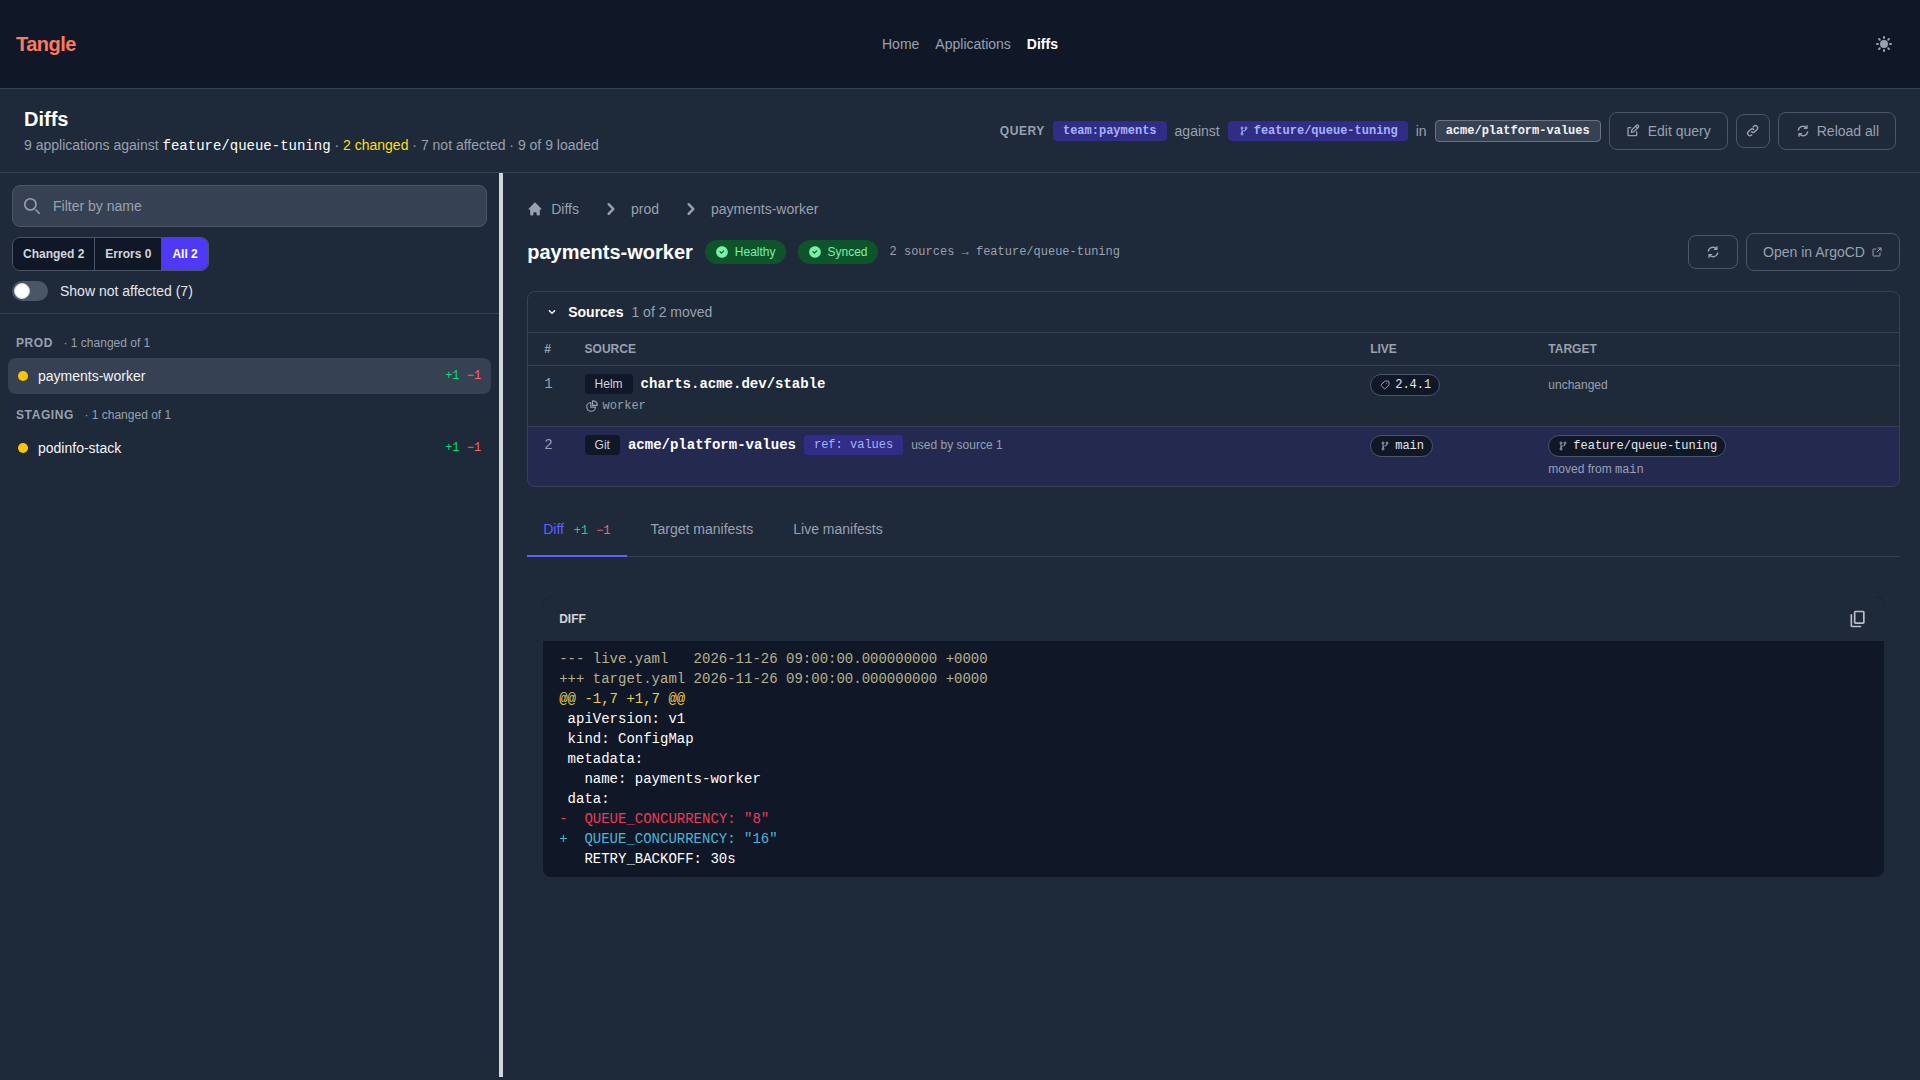
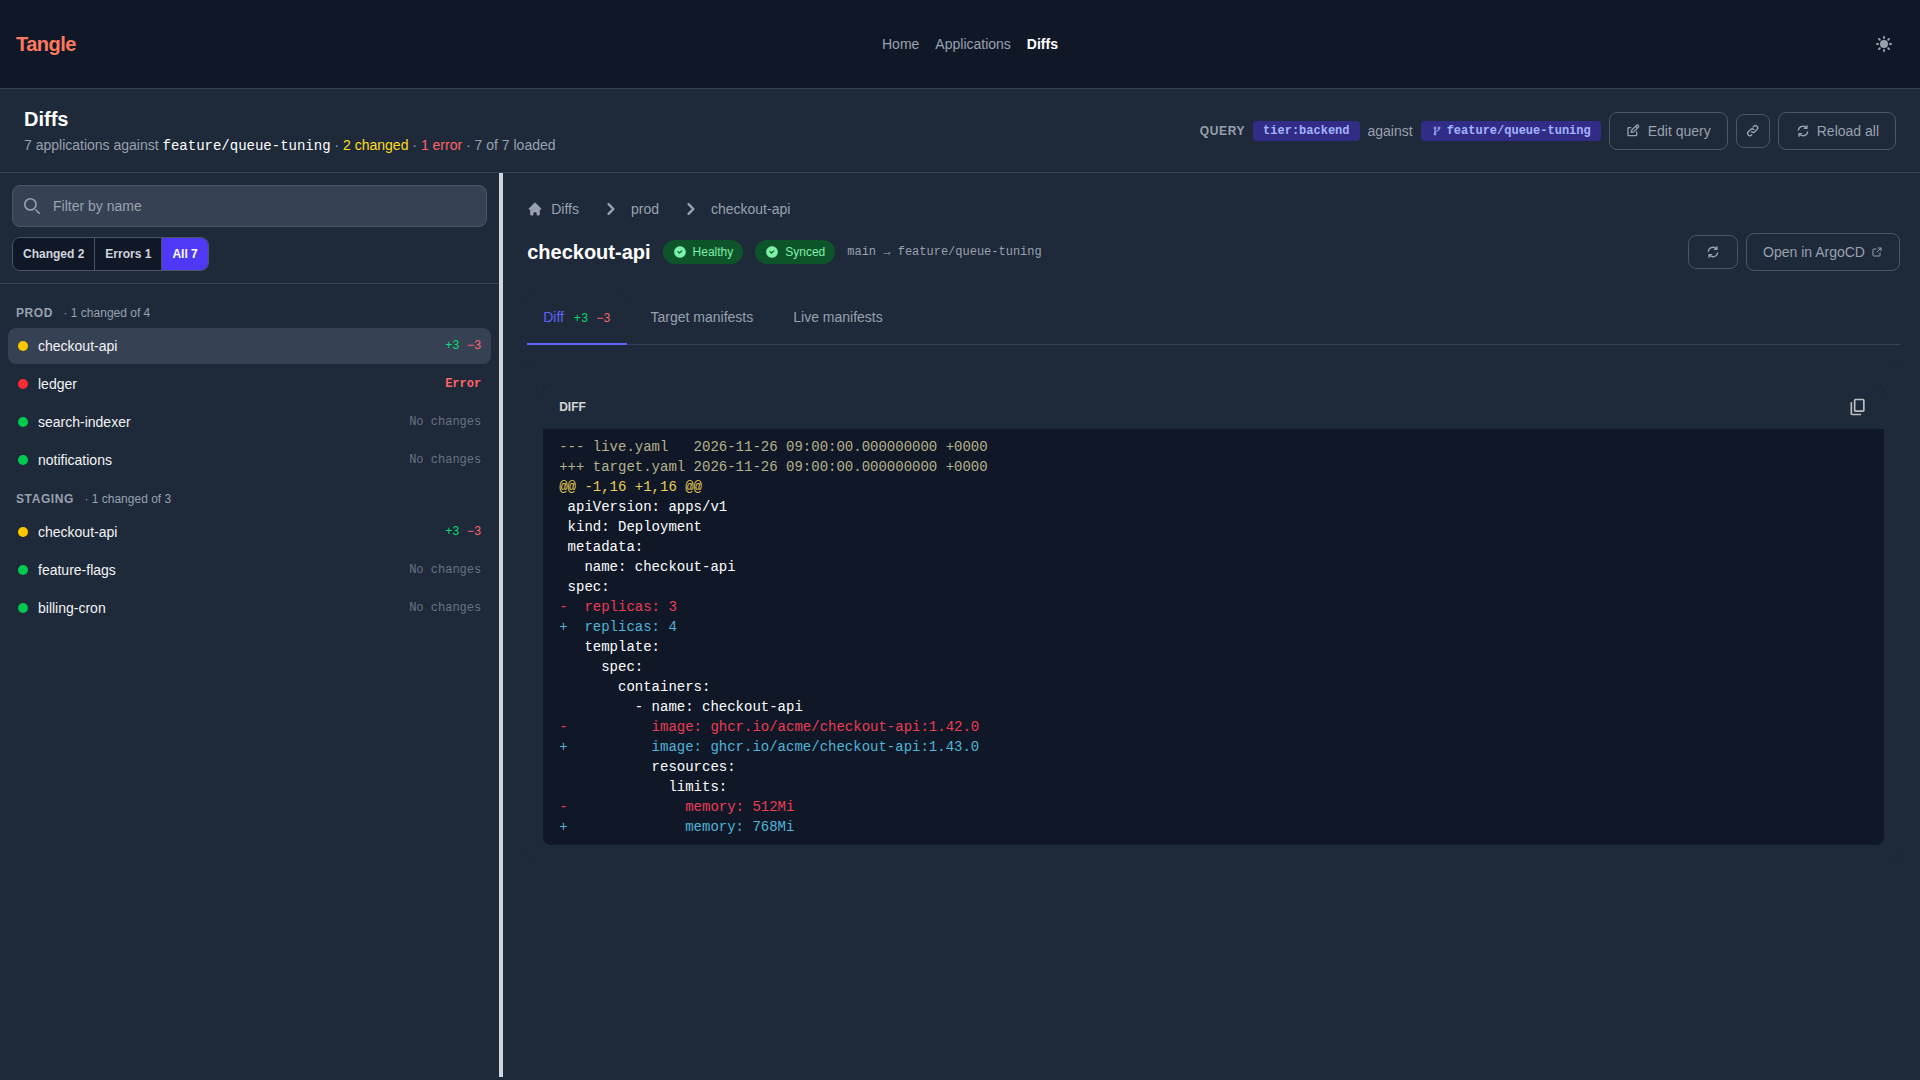
Show the single-source flow in the docs screenshots
The docs screenshots moved to the multi-source scenarios in #296: a
target repo on Home, an expanded 3-sources row, and a multi-source diff.
The basic use case isn't multi-source, so they're back to the originals'
scenarios: a label on Home, the plain Applications list, and a label
plus target ref on Diffs.

The fixture fleet now honors label queries. Single-source applications
also carry tier:backend, which the docs query; every application keeps
team:payments, so the screenshot tests and their baselines are unchanged.

diff --git a/web/e2e/fixtures/fleet.ts b/web/e2e/fixtures/fleet.ts
@@ -32,6 +32,8 @@ interface FleetApp {
 	health: string;
 	syncStatus: string;
 	sources: FleetSource[];
+	/** Labels on top of `team: payments`, which every application has. */
+	labels?: Record<string, string>;
 	rendered: Rendered;
 	/**
 	 * Repos that don't have the target ref: rendering fails, the way ArgoCD
@@ -97,6 +99,7 @@ const FLEET: { instance: string; apps: FleetApp[] }[] = [
 		apps: [
 			{
 				name: 'checkout-api',
+				labels: { tier: 'backend' },
 				health: 'Healthy',
 				syncStatus: 'Synced',
 				sources: [
@@ -132,6 +135,7 @@ const FLEET: { instance: string; apps: FleetApp[] }[] = [
 			},
 			{
 				name: 'ledger',
+				labels: { tier: 'backend' },
 				health: 'Degraded',
 				syncStatus: 'OutOfSync',
 				sources: [
@@ -144,6 +148,7 @@ const FLEET: { instance: string; apps: FleetApp[] }[] = [
 			},
 			{
 				name: 'search-indexer',
+				labels: { tier: 'backend' },
 				health: 'Progressing',
 				syncStatus: 'Synced',
 				sources: [
@@ -158,6 +163,7 @@ const FLEET: { instance: string; apps: FleetApp[] }[] = [
 			},
 			{
 				name: 'notifications',
+				labels: { tier: 'backend' },
 				health: 'Healthy',
 				syncStatus: 'Synced',
 				sources: [
@@ -177,6 +183,7 @@ const FLEET: { instance: string; apps: FleetApp[] }[] = [
 		apps: [
 			{
 				name: 'checkout-api',
+				labels: { tier: 'backend' },
 				health: 'Healthy',
 				syncStatus: 'Synced',
 				sources: [
@@ -218,6 +225,7 @@ const FLEET: { instance: string; apps: FleetApp[] }[] = [
 			},
 			{
 				name: 'feature-flags',
+				labels: { tier: 'backend' },
 				health: 'Healthy',
 				syncStatus: 'Synced',
 				sources: [
@@ -232,6 +240,7 @@ const FLEET: { instance: string; apps: FleetApp[] }[] = [
 			},
 			{
 				name: 'billing-cron',
+				labels: { tier: 'backend' },
 				health: 'Missing',
 				syncStatus: 'OutOfSync',
 				sources: [
@@ -255,12 +264,31 @@ function normalize(repo: string): string {
 		.replace(/^([^/]+)/, (host) => host.toLowerCase().replace(/:\d+$/, ''));
 }
 
-function applicationsResponse() {
+/** `key:value` pairs from a `labels` or `excludeLabels` query parameter. */
+function labelPairs(url: URL, param: string): [string, string][] {
+	return url.searchParams
+		.getAll(param)
+		.flatMap((value) => value.split(','))
+		.filter(Boolean)
+		.map((pair) => pair.split(':') as [string, string]);
+}
+
+/** The applications a label query selects, the way ArgoCD's selector does. */
+function applicationsResponse(url: URL) {
+	const include = labelPairs(url, 'labels');
+	const exclude = labelPairs(url, 'excludeLabels');
+	const selected = (app: FleetApp) => {
+		const labels: Record<string, string> = { team: 'payments', ...app.labels };
+		return (
+			include.every(([key, value]) => labels[key] === value) &&
+			!exclude.some(([key, value]) => labels[key] === value)
+		);
+	};
 	return {
 		results: FLEET.map(({ instance, apps }) => ({
 			name: instance,
 			link: `https://argocd-${instance}.acme.dev/applications`,
-			applications: apps.map((app) => ({
+			applications: apps.filter(selected).map((app) => ({
 				name: app.name,
 				url: `https://argocd-${instance}.acme.dev/applications/argocd/${app.name}`,
 				health: app.health,
@@ -359,7 +387,7 @@ async function mockFleetAPI(page: Page): Promise<void> {
 		route.fulfill({ json: { domain: 'https://tangle.acme.dev' } })
 	);
 	await page.route('**/api/applications*', (route) =>
-		route.fulfill({ json: applicationsResponse() })
+		route.fulfill({ json: applicationsResponse(new URL(route.request().url())) })
 	);
 	await page.route('**/api/argocd/*/applications/*/diffs', (route: Route) => {
 		const [, instance, name] =

diff --git a/web/e2e/docs/readme.spec.ts b/web/e2e/docs/readme.spec.ts
@@ -1,13 +1,6 @@
 import { expect, test } from '@playwright/test';
 import { fileURLToPath } from 'node:url';
-import {
-	diffsPath,
-	diffsSettled,
-	openScreen,
-	ready,
-	PLATFORM_VALUES,
-	selectDiff
-} from '../fixtures/screens';
+import { diffsPath, diffsSettled, openScreen, ready, selectDiff } from '../fixtures/screens';
 
 // Writes the screenshots README.md and docs/index.md embed, from the fixture
 // fleet instead of the live stack, so they show a realistic fleet and come
@@ -22,45 +15,32 @@ const imagesDir = fileURLToPath(new URL('../../../docs/images/', import.meta.url
 
 test.use({ viewport: { width: 1920, height: 1080 } });
 
-test('TangleHome.png: a query being built on the Home page', async ({ page }) => {
+test('TangleHome.png: the tier:backend label set on the Home page', async ({ page }) => {
 	await openScreen(page, '/');
 	const include = 'Include applications with all of these labels';
-	await page.getByRole('textbox', { name: `${include} key` }).fill('team');
-	await page.getByRole('textbox', { name: `${include} value` }).fill('payments');
+	await page.getByRole('textbox', { name: `${include} key` }).fill('tier');
+	await page.getByRole('textbox', { name: `${include} value` }).fill('backend');
 	await page.getByRole('button', { name: 'Add label' }).click();
-	await page.getByRole('textbox', { name: 'Target ref' }).fill('feature/queue-tuning');
-	await page.getByRole('textbox', { name: 'Target repos' }).fill(PLATFORM_VALUES);
-	await page.getByRole('button', { name: 'Add target repo' }).click();
-	await expect(
-		page.getByRole('button', { name: 'Remove target repo acme/platform-values' })
-	).toBeVisible();
+	await expect(page.getByRole('button', { name: 'Remove label tier:backend' })).toBeVisible();
 
 	await ready(page);
 	await page.screenshot({ path: `${imagesDir}TangleHome.png`, fullPage: true });
 });
 
-test('TangleApplications.png: /applications?labels=team:payments', async ({ page }) => {
-	await openScreen(page, '/applications?labels=team:payments');
-	await page.getByRole('button', { name: '3 sources' }).click();
-	await expect(page.getByText('stefanprodan/podinfo')).toBeVisible();
+test('TangleApplications.png: /applications?labels=tier:backend', async ({ page }) => {
+	await openScreen(page, '/applications?labels=tier:backend');
+	await expect(page.getByText('billing-cron', { exact: true })).toBeVisible();
 
 	await ready(page);
 	await page.screenshot({ path: `${imagesDir}TangleApplications.png`, fullPage: true });
 });
 
-test('TangleDiffs.png: /diffs?labels=team:payments&targetRef=feature/queue-tuning&targetRepo=…/platform-values', async ({
+test('TangleDiffs.png: /diffs?labels=tier:backend&targetRef=feature/queue-tuning', async ({
 	page
 }) => {
-	await openScreen(
-		page,
-		diffsPath({
-			labels: 'team:payments',
-			targetRef: 'feature/queue-tuning',
-			targetRepo: PLATFORM_VALUES
-		})
-	);
+	await openScreen(page, diffsPath({ labels: 'tier:backend', targetRef: 'feature/queue-tuning' }));
 	await diffsSettled(page);
-	await selectDiff(page, 'payments-worker');
+	await selectDiff(page, 'checkout-api');
 
 	await ready(page);
 	await page.screenshot({ path: `${imagesDir}TangleDiffs.png`, fullPage: true });

diff --git a/docs/agents/internals.md b/docs/agents/internals.md
@@ -94,4 +94,4 @@ The frontend is on SvelteKit 3, which has no `svelte.config.js`: the preprocesso
 
 Every query field lives in the URL (`web/src/lib/ui/query.ts`), so a link reproduces the page. For multi-source applications that includes a repeated `targetRepo` and `inferTargetRepo=true` ([ADR 0032](../adrs/0032-choose-multi-source-revisions-by-target-repo.md)), which the Diffs page sends with every diff request and the query preview turns into `--target-repo` and `--infer-target-repo`. The client leaves both out of the request when they are unset, so a single-source diff sends what it always did. The outcome of a diff (`web/src/lib/ui/diffs.ts`) reads the server's `status` before its error message, because "needs target repo" sets both. "Not affected" rows are hidden until the sidebar's toggle shows them, and the outcome counts are of the rows listed. The *Needs repo* detail pane's one action adds the picked candidates to the query, which re-runs every diff, because a target repo applies to the whole query. The Diffs page works out which git repos its applications use (`repoUsage` in `web/src/lib/ui/repos.ts`, whose `normalizeRepo` mirrors the server's URL normalization). That list feeds the target repos field's suggestions (a native `<datalist>`), its warning about a target repo no listed application uses, and the "used by N other apps" note on each *Needs repo* candidate. Suggestions come from the applications already loaded rather than a fresh `/applications` call, so they don't follow label edits made in the drawer.
 
-Screenshot tests and the documentation screenshots share `web/playwright.visual.config.ts` ([ADR 0033](../adrs/0033-playwright-screenshot-tests-in-a-pinned-image.md)). Both render a fixture fleet (`web/e2e/fixtures/fleet.ts`): two ArgoCDs, realistic application names, every health, sync and diff status, and a diff responder that follows ADR 0032's planning rules, served through Playwright request routing with nothing that varies between runs. The `visual` project compares screens in light and dark against baselines in `web/e2e/visual/__screenshots__/`. The `docs` project writes `docs/images/Tangle{Home,Applications,Diffs}.png` instead. Both only run through `web/scripts/playwright-docker.sh`, which uses the Playwright image whose tag matches the version in `package-lock.json`, because baselines only match in the environment that made them. The script runs as the host user and keeps the container's `node_modules` and `.svelte-kit` on tmpfs: a container `npm ci` must not replace the host's `node_modules`, and the container's build must not rewrite the `.svelte-kit/generated` files a running `vite dev` reads. Vitest gets its own output folder for the same reason: it runs the SvelteKit plugin in `test` mode, which writes `.env.test`'s empty `PUBLIC_BASE_URL` into the generated env modules, so sharing `.svelte-kit` pointed a running dev server's API calls at itself. `vite.config.ts` sets `outDir` to `.svelte-kit-vitest` under Vitest. CI's `visual` job runs the same script on the amd64 runner and uploads the diff images when it fails.
+Screenshot tests and the documentation screenshots share `web/playwright.visual.config.ts` ([ADR 0033](../adrs/0033-playwright-screenshot-tests-in-a-pinned-image.md)). Both render a fixture fleet (`web/e2e/fixtures/fleet.ts`): two ArgoCDs, realistic application names, every health, sync and diff status, and a diff responder that follows ADR 0032's planning rules, served through Playwright request routing with nothing that varies between runs. Every application has `team:payments`, which the screenshot tests query. The single-source ones also have `tier:backend`, which the documentation screenshots query so they show the basic, single-source flow. The `visual` project compares screens in light and dark against baselines in `web/e2e/visual/__screenshots__/`. The `docs` project writes `docs/images/Tangle{Home,Applications,Diffs}.png` instead. Both only run through `web/scripts/playwright-docker.sh`, which uses the Playwright image whose tag matches the version in `package-lock.json`, because baselines only match in the environment that made them. The script runs as the host user and keeps the container's `node_modules` and `.svelte-kit` on tmpfs: a container `npm ci` must not replace the host's `node_modules`, and the container's build must not rewrite the `.svelte-kit/generated` files a running `vite dev` reads. Vitest gets its own output folder for the same reason: it runs the SvelteKit plugin in `test` mode, which writes `.env.test`'s empty `PUBLIC_BASE_URL` into the generated env modules, so sharing `.svelte-kit` pointed a running dev server's API calls at itself. `vite.config.ts` sets `outDir` to `.svelte-kit-vitest` under Vitest. CI's `visual` job runs the same script on the amd64 runner and uploads the diff images when it fails.

diff --git a/docs/index.md b/docs/index.md
@@ -11,19 +11,19 @@ Tangle makes using with multiple ArgoCDs in a [hub and spoke](https://codefresh.
 - Working equally well for your CI/CD tooling (i.e. available as JSON APIs to consume from your tools) and for your humans (via a website that's easy to embed into existing tools).
 - Does all those things with mechanisms (i.e. worker pools) to limit load on ArgoCD components
 
-**Example: Building a query on the Home page: the `team:payments` label, the `feature/queue-tuning` branch, and the repo it was pushed to**
+**Example: Setting the `tier:backend` label on the Home page**
 
 ![Home](./images/TangleHome.png)
 
-**Example: View all Applications with the `team:payments` label**
+**Example: View all Applications with the `tier:backend` label**
 
-Visiting `/applications?labels=team:payments`
+Visiting `/applications?labels=tier:backend`
 
 ![Applications](./images/TangleApplications.png)
 
-**Example: View diffs of all Applications with the `team:payments` label against the `feature/queue-tuning` branch of `acme/platform-values`**
+**Example: View diffs of all Applications with the `tier:backend` label against the `feature/queue-tuning` branch**
 
-Visiting `/diffs?labels=team:payments&targetRef=feature/queue-tuning&targetRepo=https://github.com/acme/platform-values.git`
+Visiting `/diffs?labels=tier:backend&targetRef=feature/queue-tuning`
 
 ![Diffs](./images/TangleDiffs.png)
 

diff --git a/README.md b/README.md
@@ -13,19 +13,19 @@ Tangle makes using with multiple ArgoCDs in a [hub and spoke](https://codefresh.
 
 For more information, check out our [documentation](https://ivanklee86.github.io/tangle/)!
 
-**Example: Building a query on the Home page: the `team:payments` label, the `feature/queue-tuning` branch, and the repo it was pushed to**
+**Example: Setting the `tier:backend` label on the Home page**
 
 ![Home](./docs/images/TangleHome.png)
 
-**Example: View all Applications with the `team:payments` label**
+**Example: View all Applications with the `tier:backend` label**
 
-Visiting `/applications?labels=team:payments`
+Visiting `/applications?labels=tier:backend`
 
 ![Applications](./docs/images/TangleApplications.png)
 
-**Example: View diffs of all Applications with the `team:payments` label against the `feature/queue-tuning` branch of `acme/platform-values`**
+**Example: View diffs of all Applications with the `tier:backend` label against the `feature/queue-tuning` branch**
 
-Visiting `/diffs?labels=team:payments&targetRef=feature/queue-tuning&targetRepo=https://github.com/acme/platform-values.git`
+Visiting `/diffs?labels=tier:backend&targetRef=feature/queue-tuning`
 
 ![Diffs](./docs/images/TangleDiffs.png)
 
